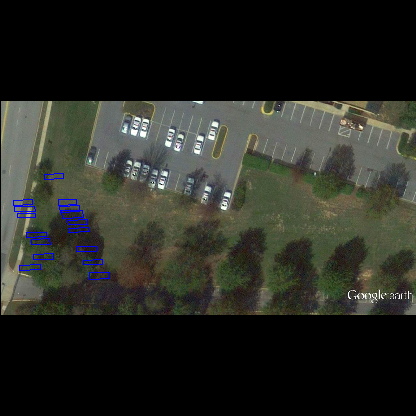
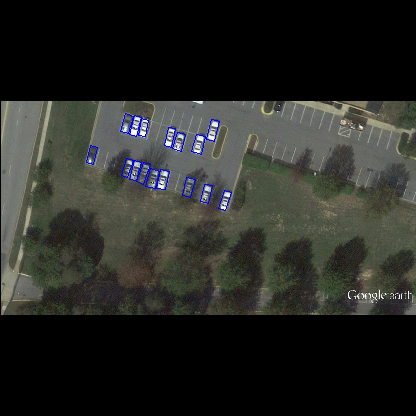
angle cal corrected

diff --git a/datasets/UCASAOD_dataset.py b/datasets/UCASAOD_dataset.py
@@ -22,14 +22,14 @@ class UCASAODDataset(BaseDataset):
         x1, y1, x2, y2, x3, y3, x4, y4, label = [], [], [], [], [], [], [], [], []
         for line in lines:
             line = line.split('\t')
-            x1.append(float(line[1]))
-            y1.append(float(line[2]))
-            x2.append(float(line[3]))
-            y2.append(float(line[4]))
-            x3.append(float(line[5]))
-            y3.append(float(line[6]))
-            x4.append(float(line[7]))
-            y4.append(float(line[8]))
+            x1.append(float(line[0]))
+            y1.append(float(line[1]))
+            x2.append(float(line[2]))
+            y2.append(float(line[3]))
+            x3.append(float(line[4]))
+            y3.append(float(line[5]))
+            x4.append(float(line[6]))
+            y4.append(float(line[7]))
             if label_path.split('\\')[3][0] == "C":
                 label.append(0)
             else:  # "P"

diff --git a/display_inputs.py b/display_inputs.py
@@ -8,9 +8,9 @@ from lib.load import load_data
 
 
 if __name__ == "__main__":
-    #train_dataset, train_dataloader = load_data("data/trash", "custom", "train", 416, 1000, batch_size=1, mosaic=False, multiscale=False)
-    #train_dataset, train_dataloader = load_data("data/DOTA", "DOTA", "train", 800, 600, batch_size=1, mosaic=False, multiscale=False)
-    train_dataset, train_dataloader = load_data("data/UCAS_AOD_sample", "UCAS_AOD", "train", 416, 640, batch_size=1, mosaic=False, multiscale=False)
+    train_dataset, train_dataloader = load_data("data/UCAS_AOD_sample", "UCAS_AOD", "train",
+                                                img_size=416, sample_size=640, batch_size=1,
+                                                augment=False, mosaic=False, multiscale=False)
 
     for i, (img_path, imgs, targets) in enumerate(train_dataloader):
         print(targets)

diff --git a/datasets/base_dataset.py b/datasets/base_dataset.py
@@ -227,7 +227,7 @@ class BaseDataset(Dataset):
             if not ((-np.pi / 2 < theta).all() or (theta <= np.pi / 2).all()):
                 raise AssertionError("Theta of oriented bounding boxes are not within the boundary (-pi / 2, pi / 2]")
 
-            # Make the height of bounding boxes always larger then it's width
+            # Make the height of bounding boxes always larger than it's width
             for i in range(num_targets):
                 if w[i] > h[i]:
                     temp1, temp2 = h[i].clone(), w[i].clone()
